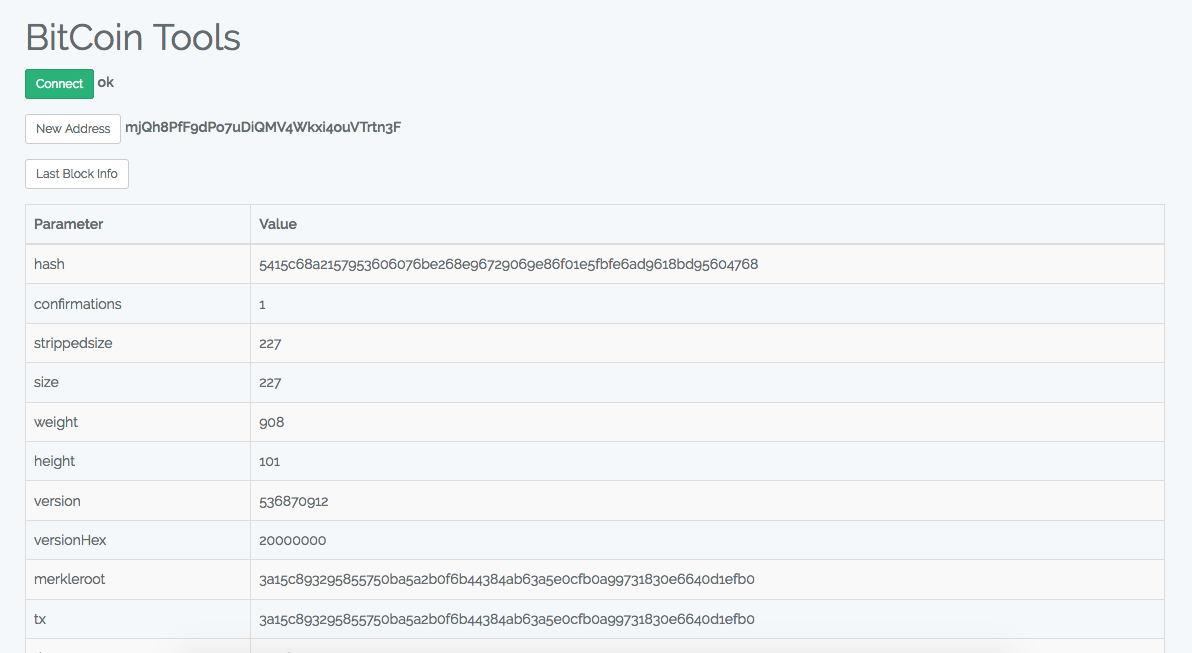
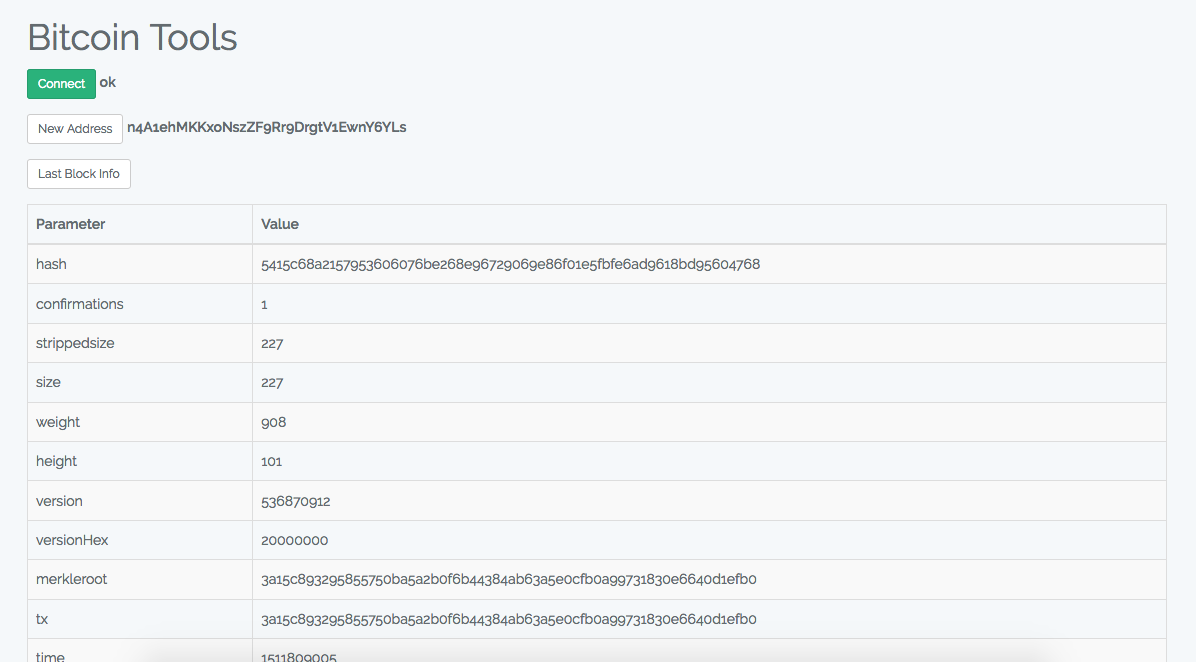
rename

diff --git a/resources/views/index.blade.php b/resources/views/index.blade.php
@@ -4,13 +4,13 @@
     <meta charset="utf-8">
     <meta http-equiv="X-UA-Compatible" content="IE=edge">
     <meta name="viewport" content="width=device-width, initial-scale=1">
-    <title>BitCoin Tools</title>
+    <title>Bitcoin Tools</title>
     <link href="/css/app.css" rel="stylesheet">
 </head>
 <body>
 <div class="container">
     <div class="content">
-        <h1>BitCoin Tools</h1>
+        <h1>Bitcoin Tools</h1>
         <form>
             <div class="form-group">
                 <button type="submit" class="btn btn-success btn-sm" id="connectButton">Connect</button>
